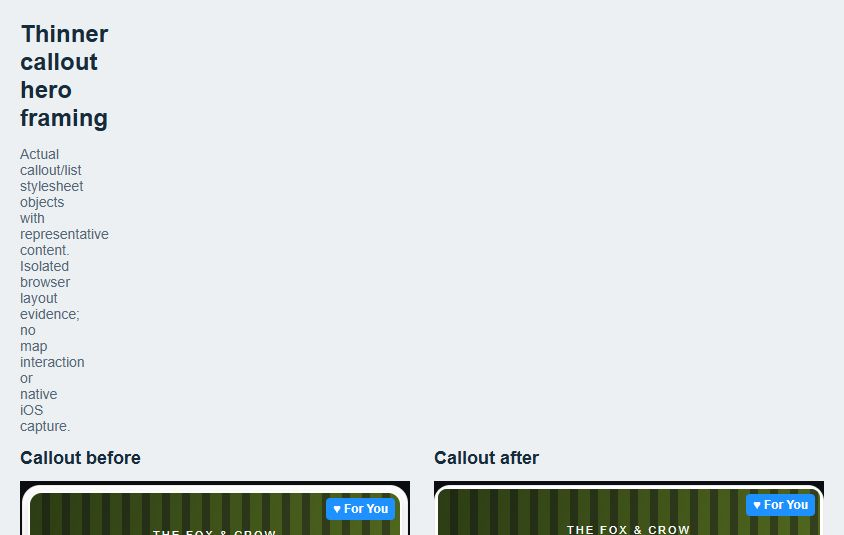
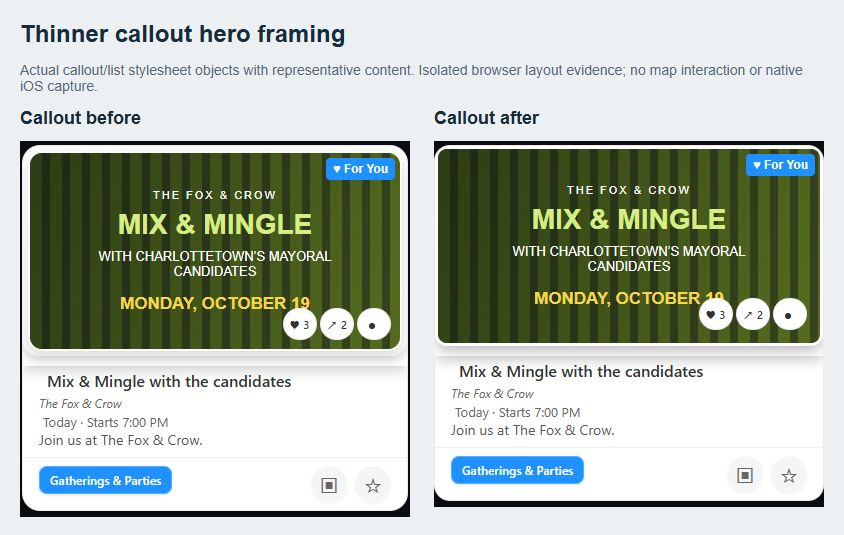
Record iOS Preview callout hero spacing release

diff --git a/docs/qa/callout-hero-spacing-20261019/RELEASE.md b/docs/qa/callout-hero-spacing-20261019/RELEASE.md
@@ -1,0 +1,19 @@
+# iOS Preview callout hero framing release
+
+- Published October19,2026 at12:03:03UTC.
+- Source c2bfb2b555f4a8f1c26f0ec1315370b107c79726 on codex/feed-optimization-20261018 in the owned carousel-boundaries checkout.
+- Previous live iOS Preview source d501108677b39b2308436b940921ff9bb36a70bf / OTA01a15401 verified ancestor.
+- Target ios / preview / runtime1.1.10, existing Preview1.1.10(78).
+- Update01a1540b-36af-7135-b589-2ac4db01d2a9; Profile short ID01a1540b.
+- Group39ed890a-9752-4ad7-8277-ce8f544f1477.
+- [EAS release](https://expo.dev/accounts/craigb/projects/gathr/updates/39ed890a-9752-4ad7-8277-ce8f544f1477).
+
+Only runtime change: six style values in EventCallout.tsx. Shared event/special card margin0/radius16, hero container padding0 and hero radius12/3pt solid-white border match accepted list framing. Hero height200pt retained. All non-style callout source verified identical; ads, lists and accepted logo unchanged.
+
+TypeScript passes after isolating the previous task's ignored render fixture (README records initial failure). Lint0errors/215existing warnings. Three suites/11tests pass: interaction safety, modal dock touch layer and ad mount/identity/cancellation guards. Before/after actual-style rendering independently reviewed; all seven geometry cases have zero horizontal overflow,4pt photo inset matching list, with actual native iOS appearance/adoption pending. Corrected the saved comparison capture's browser wrapping in an evidence-only follow-up; no runtime changes required.
+
+Clean worktree, live ancestry, runtime, account/auth continuity, both social flags and Mapbox preflights pass. Clear-cache export2512modules/2468source-map sources;5745928-byte Hermes bundle; SHA2560fa761765b3f2b9d670fd64011160c3f522bde68eda40c4507d45a35194ee91c. Nineteen unique critical bundled sources matched checkout, including callout, both list screens, shared ad layout/gates, saved ranking and logo/backdrop. No QA runtime sources.108unique assets unchanged byte-for-byte; EAS112iOS assets and no new uploads.
+
+Independent update:view confirms source/runtime/platform/update; update:list confirms newest iOS Preview. Existing fingerprint9ee0b973a2f53ed5647ccafe1599ef64f1580ffb advisory persists separately from runtime compatibility/device adoption. No GathR map/device/emulator operations, native/dependency/config/runtime changes, backend mutations, Android/Production publication or additional build. Production stays held.
+
+Close/reopen Preview twice if needed. Profile should show Runtime1.1.10 / OTA01a1540b. Craig should check thin photo borders and card width in Events and Specials callout tabs. Native appearance/adoption pending; previous split portrait callout acceptance remains open. Raw logs, renderer, source checks, export verification and EAS readbacks: ignored artifacts/callout-hero-spacing-20261019/.

diff --git a/docs/ACCEPTED_BASELINE_20261017.md b/docs/ACCEPTED_BASELINE_20261017.md
@@ -89,3 +89,5 @@ October 19 additive wordmark refinement: Craig approved the actual-vector before
 Craig confirmed the outline worked on his phone, remains unsure about its appearance and explicitly chose to leave it for now. Retain it as the current baseline; further logo tweaks are parked. This is user-reported appearance evidence, not a separate Profile update-ID capture.
 
 October19 additive list spacing: Craig requested less black margin beside event cards and thinner white padding beside ad media. Source d501108677b39b2308436b940921ff9bb36a70bf removes6pt event/group outer margins, changes shared ad media inset9pt to4pt while preserving text/CTA spacing, and removes Events' redundant ad border. Latest iOS Preview OTA01a15401, group28b44740-f94d-447b-9cb1-feb78f4f5605, runtime1.1.10; newest confirmed by EAS readback. [Rendered QA and release evidence](qa/list-card-spacing-20261019/RELEASE.md). Keep earlier ad/save/logo changes. Native phone appearance/adoption pending; Production stays held.
+
+Craig confirmed the list-spacing result on his phone ("Yup that got it") and said callout ads already look good. Treat that list/ad formatting as accepted and preserve it. He requested thinner framing for the callout event/special heroes. Additive source c2bfb2b555f4a8f1c26f0ec1315370b107c79726 changes only EventCallout styles to match the list's4pt photo inset and removes the card's2pt side margin; ads and non-style logic unchanged. Latest iOS Preview OTA01a1540b, group39ed890a-9752-4ad7-8277-ce8f544f1477, runtime1.1.10, newest confirmed by EAS. [QA/release evidence](qa/callout-hero-spacing-20261019/RELEASE.md). Native callout appearance/adoption pending; Production stays held.
